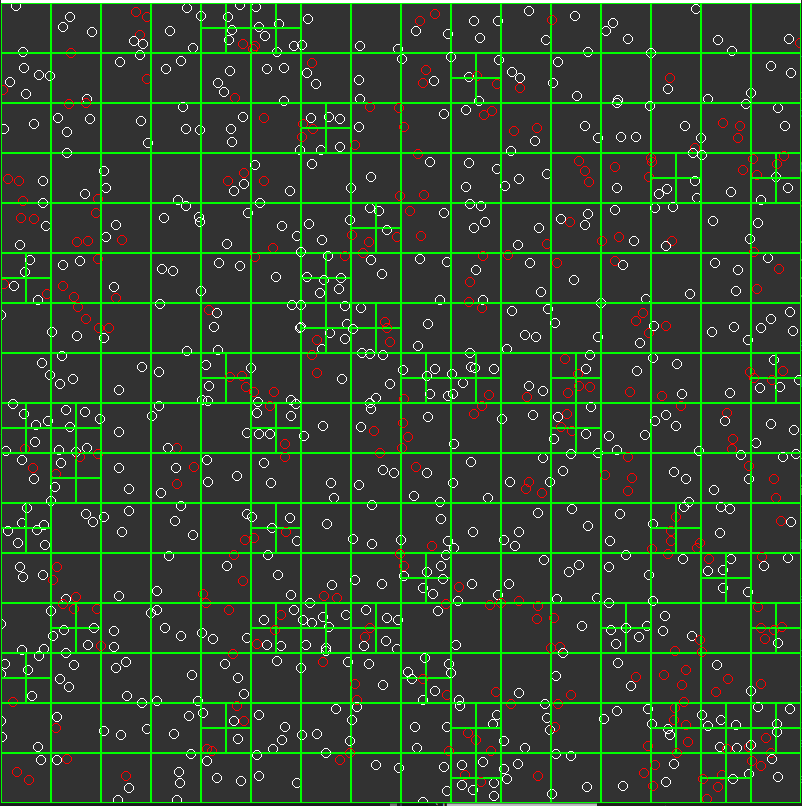
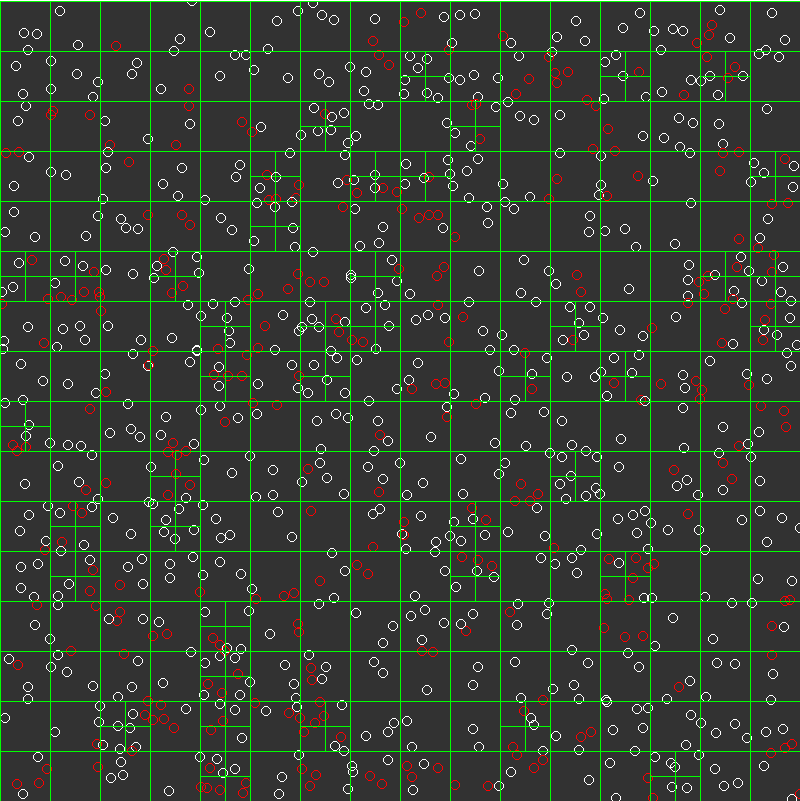
'240731_quad_render_update'

Changed region(s): [[0.0, 0.0, 1.0, 1.0]]

diff --git a/quadtree_collision_detection.py b/quadtree_collision_detection.py
@@ -177,7 +177,11 @@ class Quad:
 			for ball in self.balls:
 				ball.render()
 
-			pg.draw.rect(WINDOW, GREEN, (self.box.x, self.box.y, self.box.w, self.box.h), 1)
+			#pg.draw.rect(WINDOW, GREEN, (self.box.x, self.box.y, self.box.w, self.box.h), 1)
+			pg.draw.aaline(WINDOW, GREEN, (self.box.x, self.box.y), (self.box.x+self.box.w, self.box.y))
+			pg.draw.aaline(WINDOW, GREEN, (self.box.x, self.box.y), (self.box.x, self.box.y+self.box.h))
+			pg.draw.aaline(WINDOW, GREEN, (self.box.x+self.box.w, self.box.y), (self.box.x+self.box.w, self.box.y+self.box.h))
+			pg.draw.aaline(WINDOW, GREEN, (self.box.x, self.box.y+self.box.h), (self.box.x+self.box.w, self.box.y+self.box.h))
 			return
 
 		self.sub_quads["NW"].render()
